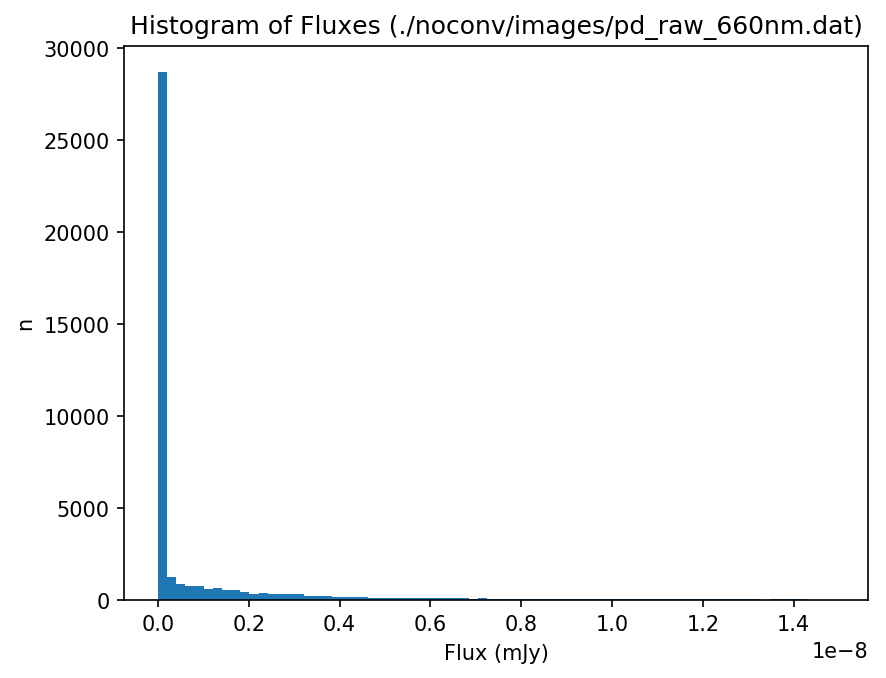
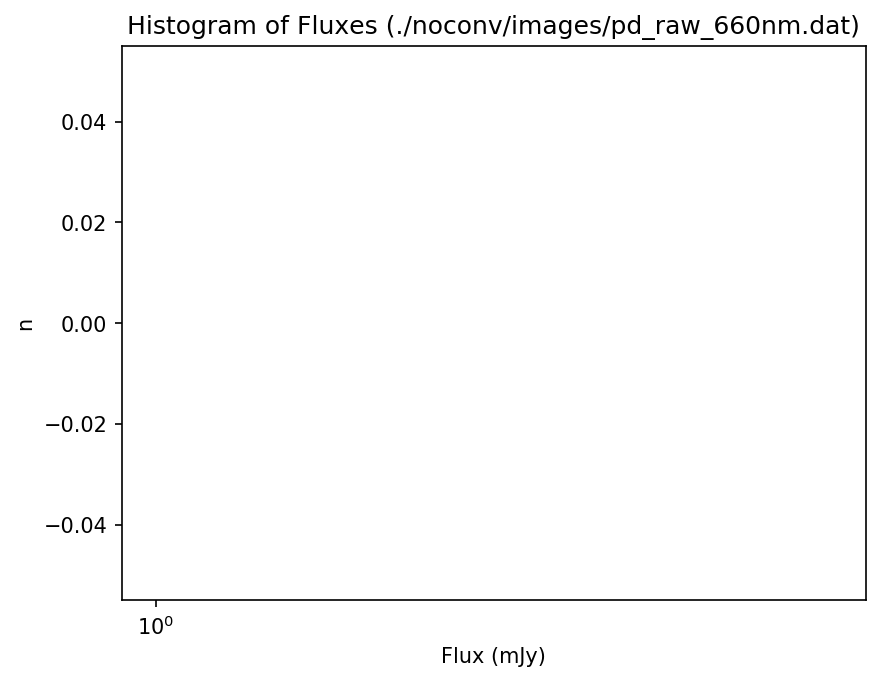
updated figures.... again

Changed region(s): [[0.0, 0.0, 0.9774, 0.9912], [0.9163, 0.9292, 0.9774, 0.9912]]

diff --git a/output/flux_hist.py b/output/flux_hist.py
@@ -24,8 +24,10 @@ ax = fig.add_subplot(111)
 
 nonzero = image_data[image_data != 0.0]
 
-ax.hist(nonzero, bins=np.linspace(0, 0.5*np.std(nonzero), 75))
+ax.hist(nonzero, bins=np.logspace(np.min(nonzero), np.max(nonzero), 75))
+
 ax.set_xlabel('Flux (mJy)')
+ax.set_xscale('log')
 ax.set_ylabel('n')
 plt.title('Histogram of Fluxes ({})'.format(args.filename))
 
